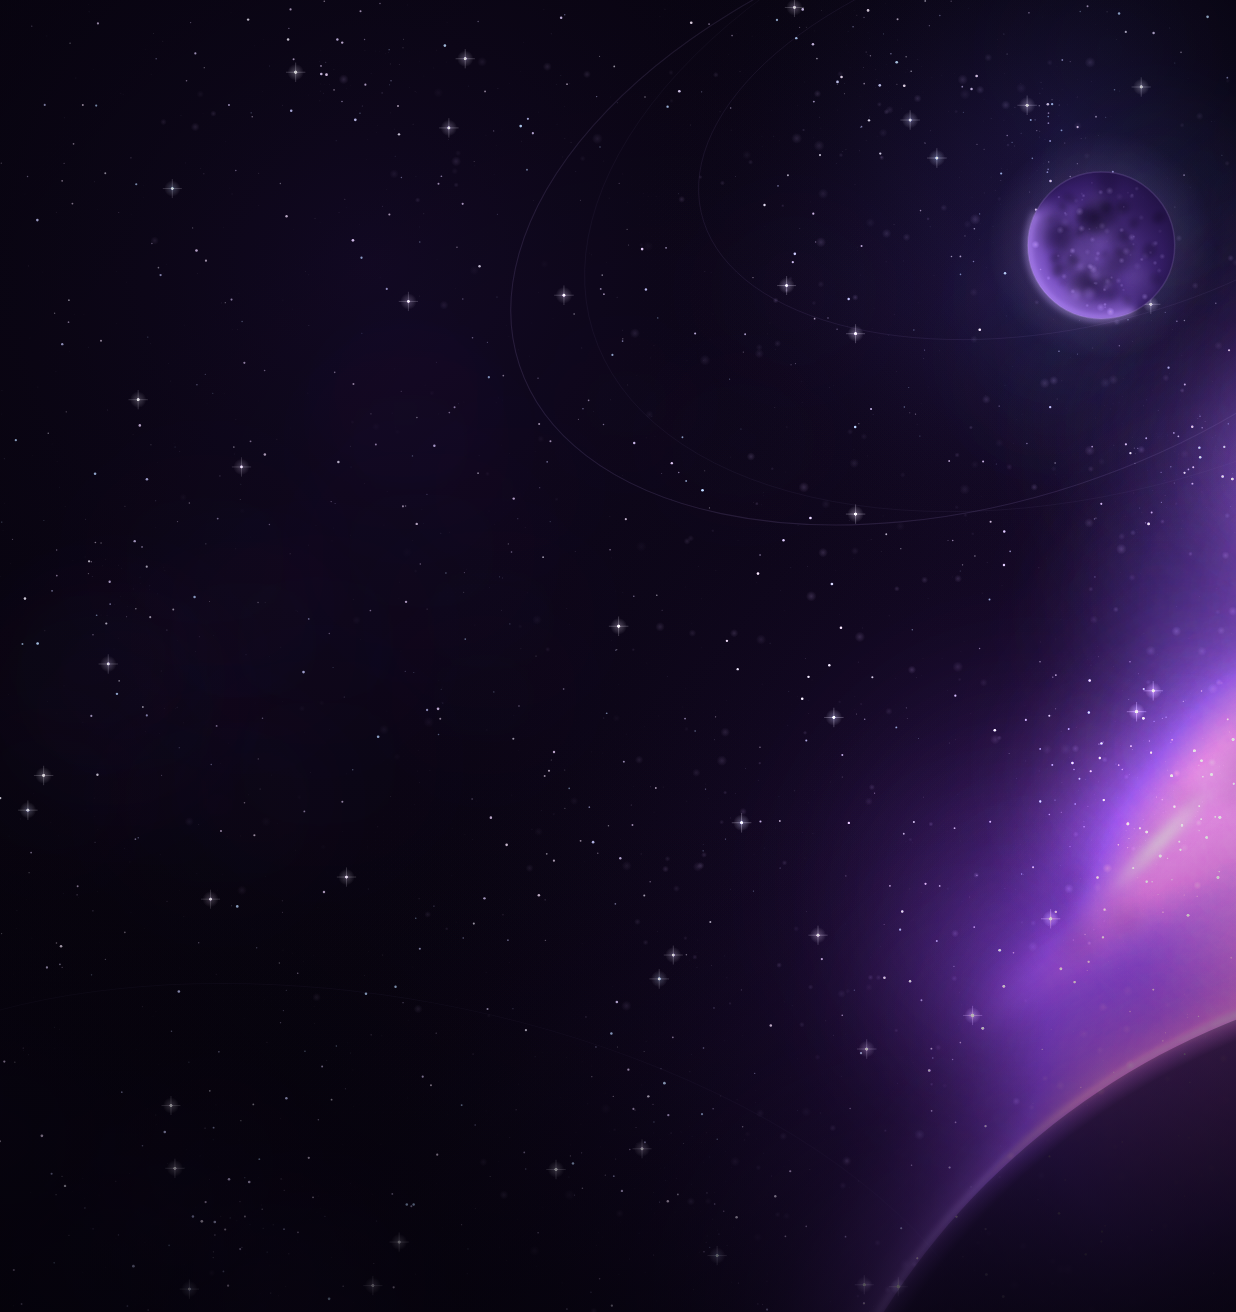
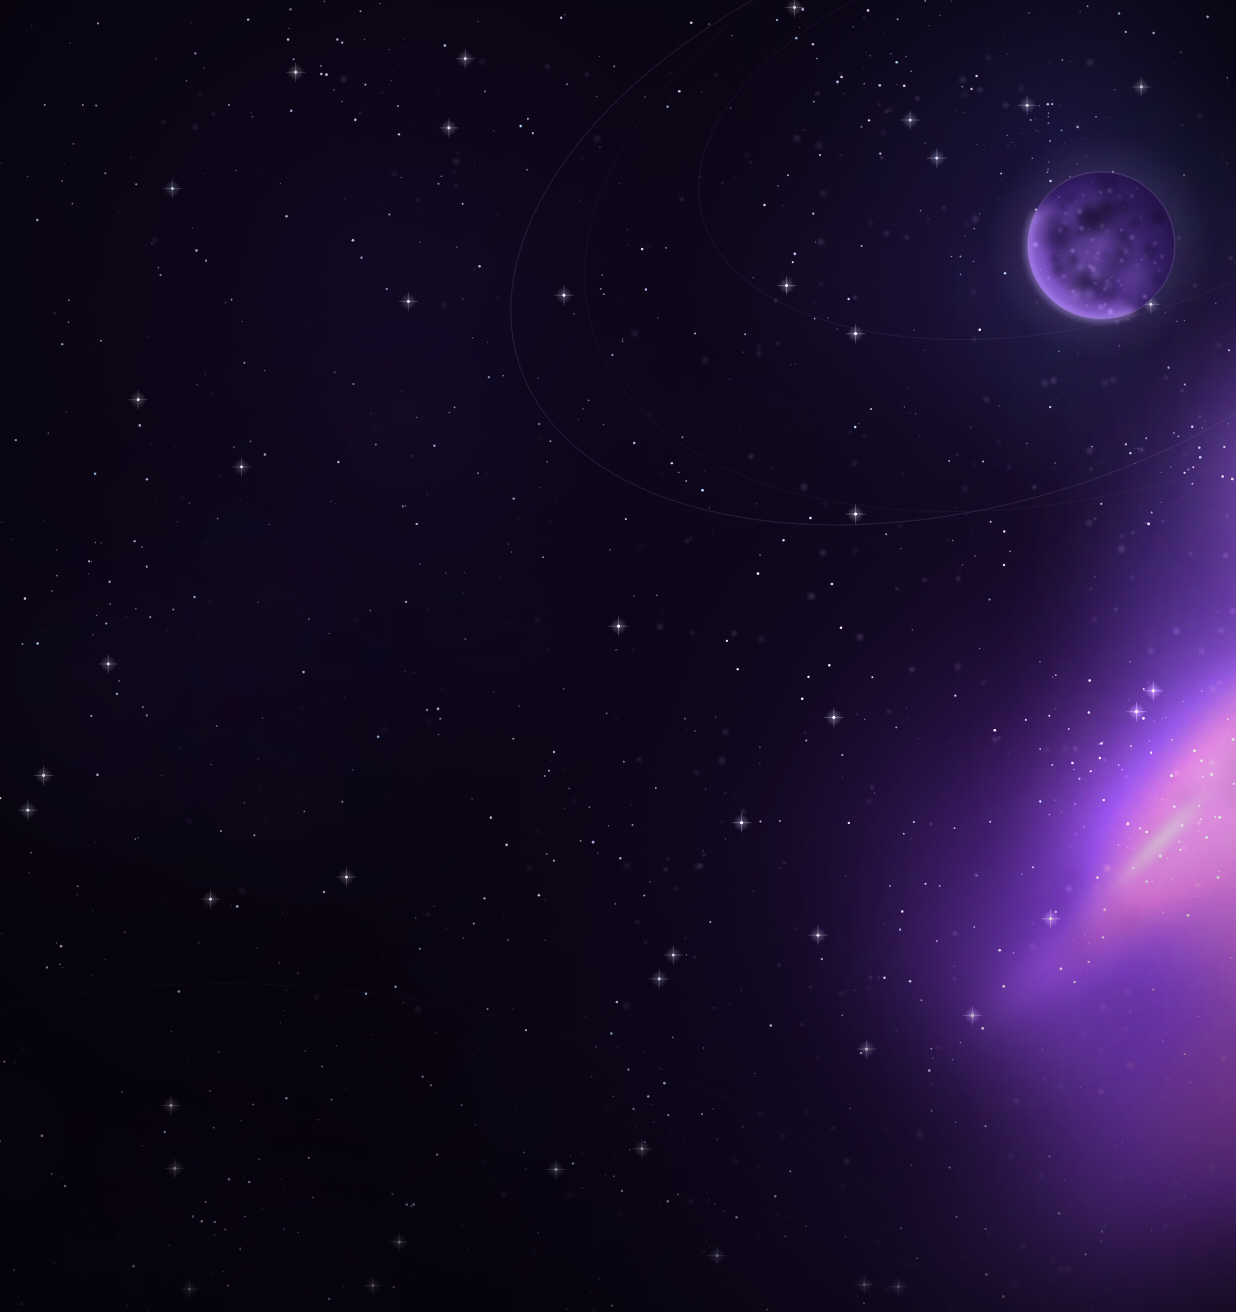
One galaxy, and nothing competing with it
The lower-right planetary limb -- even at a whisper -- still read as a second
light source under the shoulder galaxy, and the corner wash beneath it made a
third. Both are gone: the limb feature is deleted outright and the low-corner
wash folds into the galaxy's own centre, so the card's right side carries
exactly one blaze, its light falling off smoothly into the corner, with the
planet's facing limb still catching it.

Changed region(s): [[0.7071, 0.75, 1.0, 1.0]]

diff --git a/tools/cosmos/cosmos.html b/tools/cosmos/cosmos.html
@@ -87,7 +87,7 @@ function wash(cx, cy, r, color, alpha) {
 ctx.globalCompositeOperation = 'lighter';
 /* the main luminous region, low-right, behind Zoey's shoulder */
 wash(W * 0.96, H * 0.72, W * 0.68, 'rgba(86, 34, 158, 1)', 0.46);
-wash(W * 0.90, H * 0.86, W * 0.40, 'rgba(134, 52, 210, 1)', 0.26);
+wash(W * 0.94, H * 0.64, W * 0.36, 'rgba(134, 52, 210, 1)', 0.20);
 /* general violet ambience so no corner is dead black */
 wash(W * 0.30, H * 0.20, W * 0.72, 'rgba(36, 18, 74, 1)', 0.30);
 wash(W * 0.62, H * 1.02, W * 0.54, 'rgba(52, 22, 100, 1)', 0.22);
@@ -461,45 +461,6 @@ function planet(cx, cy, r) {
   ctx.restore();
 }
 planet(W * 0.891, H * 0.187, W * 0.0594);
-
-/* ------------------------------------------------------------------ 7. the lower-right limb
- * The mockup's main source of depth: a much larger planetary curvature entering the lower-right
- * corner behind Zoey, read almost entirely as its glowing rim and the purple light it throws.
- * The body itself stays nearly as dark as the sky -- it is the limb that shows.
- */
-(function lowerLimb() {
-  /* Centre and radius chosen so the limb crosses the card's right edge near 0.73 of its height --
-     the mockup's curvature rises to Zoey's shoulder, not just the corner. */
-  const cx = W * 1.22, cy = H * 1.30, r = W * 0.60;
-  ctx.save();
-
-  /* The limb's light stays QUIET: it sits inside the galaxy's own glow, one region of light, not
-     a second competitor. A thin violet rim and a soft breath -- nothing warm, nothing bright. */
-  ctx.globalCompositeOperation = 'lighter';
-  ctx.filter = 'blur(34px)';
-  ctx.strokeStyle = 'rgba(160, 88, 246, 0.16)';
-  ctx.lineWidth = r * 0.13;
-  ctx.beginPath(); ctx.arc(cx, cy, r * 1.02, Math.PI * 0.98, Math.PI * 1.52); ctx.stroke();
-  ctx.filter = 'blur(12px)';
-  ctx.strokeStyle = 'rgba(204, 144, 255, 0.18)';
-  ctx.lineWidth = r * 0.04;
-  ctx.beginPath(); ctx.arc(cx, cy, r, Math.PI * 1.00, Math.PI * 1.50); ctx.stroke();
-  ctx.filter = 'blur(3px)';
-  ctx.strokeStyle = 'rgba(236, 214, 255, 0.24)';
-  ctx.lineWidth = r * 0.009;
-  ctx.beginPath(); ctx.arc(cx, cy, r, Math.PI * 1.04, Math.PI * 1.46); ctx.stroke();
-  ctx.filter = 'none';
-  ctx.globalCompositeOperation = 'source-over';
-
-  /* the body: darker than the glow, shading the corner it occupies */
-  const body = ctx.createRadialGradient(cx, cy, r * 0.6, cx, cy, r);
-  body.addColorStop(0, 'rgba(14, 8, 30, 0.85)');
-  body.addColorStop(0.92, 'rgba(20, 10, 42, 0.72)');
-  body.addColorStop(1, 'rgba(30, 16, 60, 0.30)');
-  ctx.fillStyle = body;
-  ctx.beginPath(); ctx.arc(cx, cy, r * 0.995, 0, Math.PI * 2); ctx.fill();
-  ctx.restore();
-})();
 
 /* ------------------------------------------------------------------ 8. vignette
  * Pulls the corners down so the card's own edges are not the brightest thing in the frame.
